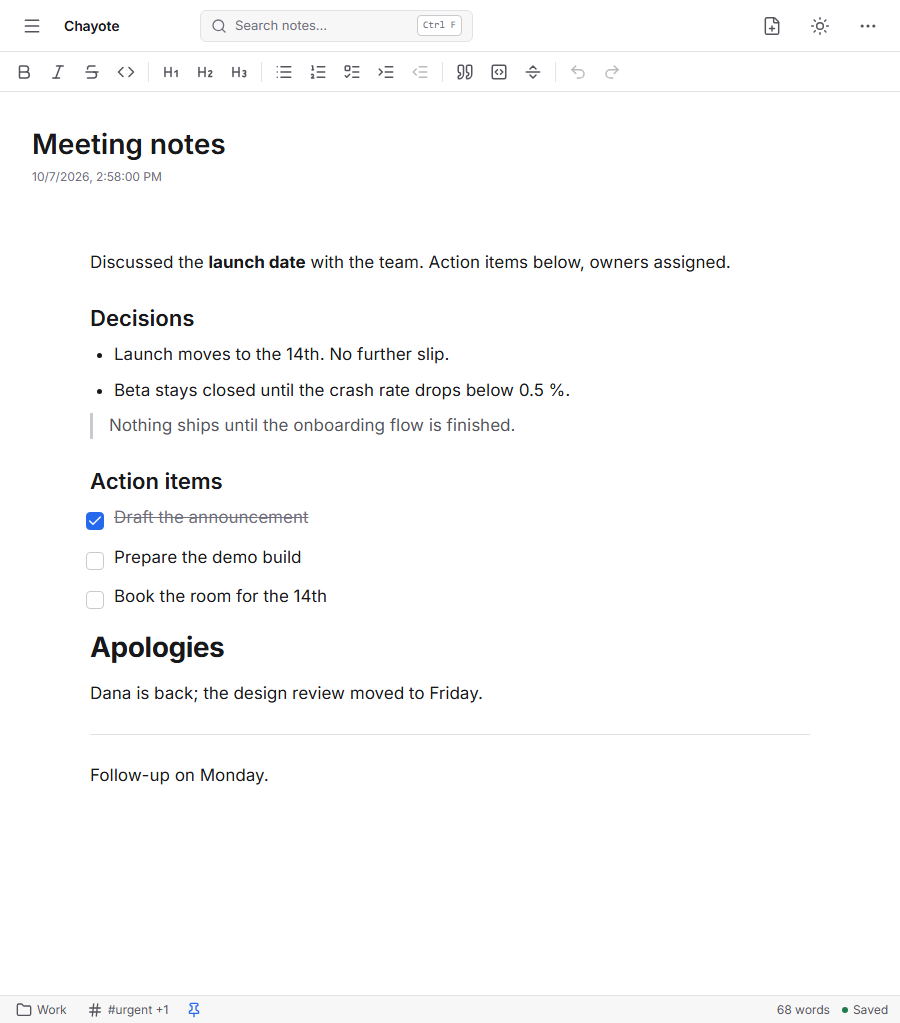
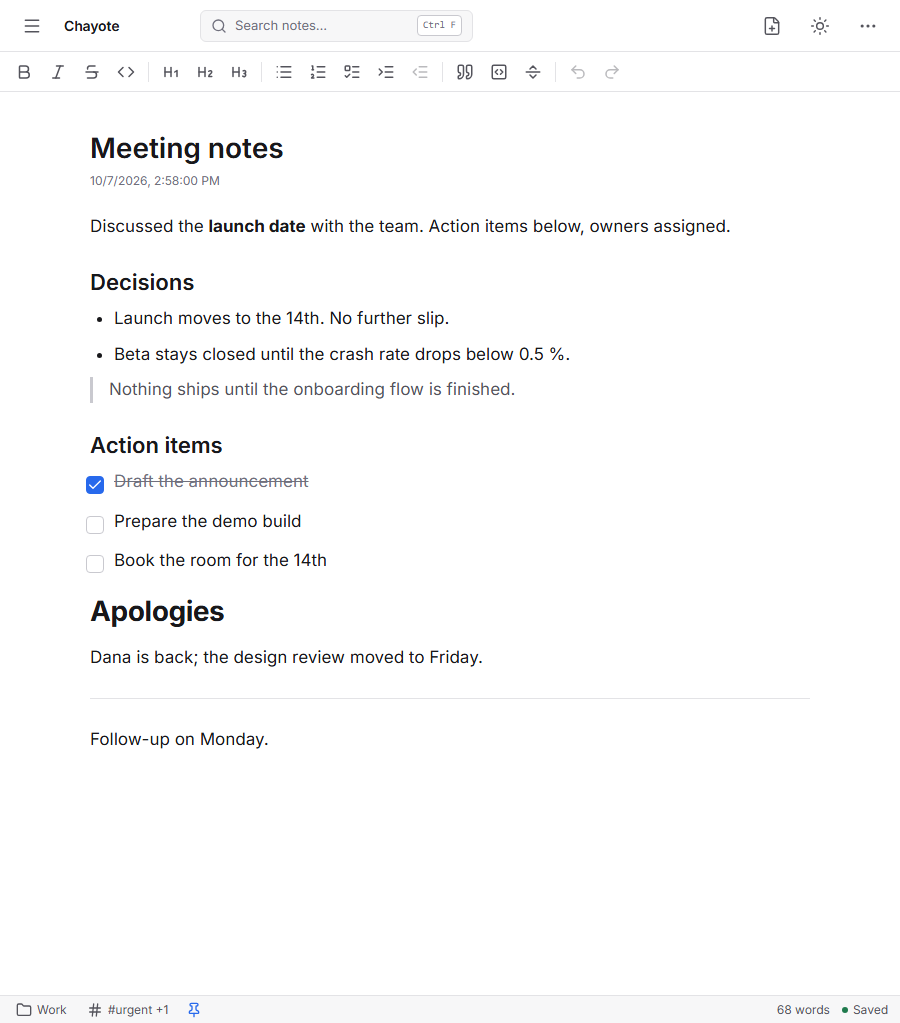
fix(mobile): let the title scroll, and stop the status row riding the keyboard
Three defects the user reported on the phone after the last two merges. Two are consequences of those merges; the third was older than both.

**The title hung above the note.** NoteHeader was a sibling of the scroll container, not a child, so scrolling a long note never moved it - a sibling of a scroller does not move when the scroller moves. ADR-023 landed it that way and the prototype has contradicted it since it was written: .editor-scroll and .m-editor both wrap .note-head *and* .editor. It is a child of the scrolling column now, with the prototype's own spacing - 24 px under the header on desktop, 16 on mobile, taken off the date line so a note without a date still has the gap. The padding moved to the column, where the prototype puts it, and so did the click routing that sends a tap under short text to the end of the document: ProseMirror fills the editor box, so the dead zone is now the column's own padding and nothing inside it needs catching twice.
[…]

Changed region(s): [[0.0933, 0.2121, 0.8089, 0.7879], [0.0311, 0.1212, 0.3111, 0.1818]]

diff --git a/e2e/mobile.spec.ts b/e2e/mobile.spec.ts
@@ -563,9 +563,11 @@ test.describe('mobile touch', { tag: '@touch' }, () => {
     await expect(page.getByRole('textbox', { name: 'Note content' })).toBeFocused();
     expect(await caret()).toEqual({ collapsed: true, inside: true });
 
-    /* The wrapper's own left padding, outside the editable element entirely. */
+    /* The scroll container's own left padding, outside the editable element
+       entirely. ADR-023's padding lived on the editor's wrapper; it is on the
+       scrolling column now, so this aims inside it rather than at its edge. */
     await blur();
-    await page.touchscreen.tap(box.x - 20, box.y + box.height / 2);
+    await page.touchscreen.tap(box.x - 10, box.y + box.height / 2);
     await expect(page.getByRole('textbox', { name: 'Note content' })).toBeFocused();
     expect(await caret()).toEqual({ collapsed: true, inside: true });
   });
@@ -596,5 +598,84 @@ test.describe('mobile touch', { tag: '@touch' }, () => {
     expect(menuBox.y + menuBox.height, 'menu overflows the viewport').toBeLessThanOrEqual(
       MOBILE.height,
     );
+  });
+});
+
+/* Found on a phone, by the user, straight after ADR-023 and the viewport fix that
+   went with it. Three separate things, one file because they are all about the
+   shape of the scrolling column rather than about any one control. */
+test.describe('mobile scroll shape', () => {
+  test('the title is part of the scrolling text, not a fixture above it', async ({ page }) => {
+    await openEditor(page);
+
+    /* The structural claim first, because it is the one that cannot be satisfied
+       by accident: the title is a *child* of the scroll container. ADR-023 put it
+       beside the container, which is what pinned it — a sibling of a scroller does
+       not move when the scroller moves, so scrolling a long note left the title
+       sitting at the top for ever. `prototype/index.html` has had
+       `.editor-scroll > .note-head + .editor` since it was written. */
+    const nesting = await page.evaluate(() => {
+      const header = document.querySelector('[data-testid="note-header"]');
+      const scroller = document.querySelector('.editor-scroll');
+      return header !== null && scroller !== null && scroller.contains(header);
+    });
+    expect(nesting, 'note-header is inside the scroll container').toBe(true);
+
+    /* And the behaviour, on a viewport short enough that any note scrolls. */
+    await page.setViewportSize({ width: MOBILE.width, height: 200 });
+    const moved = await page.evaluate(() => {
+      const scroller = document.querySelector('.editor-scroll');
+      const header = document.querySelector('[data-testid="note-header"]');
+      if (!(scroller instanceof HTMLElement) || header === null) return null;
+      const before = header.getBoundingClientRect().y;
+      scroller.scrollTop = scroller.scrollHeight;
+      return { before, after: header.getBoundingClientRect().y, scrollTop: scroller.scrollTop };
+    });
+    expect(moved, 'header and scroller found').not.toBeNull();
+    if (moved === null) return;
+    expect(moved.scrollTop, 'the note scrolls at all').toBeGreaterThan(0);
+    expect(moved.before - moved.after, 'the title moved up with the text').toBeGreaterThan(20);
+  });
+
+  test('the status row is pinned to the layout viewport, so the keyboard covers it', async ({
+    page,
+  }) => {
+    await openEditor(page);
+
+    /* The row used to ride up with the keyboard and appear above it, because
+       `#root` is sized to the *visible* area and the row sat at the bottom of the
+       pane in normal flow. Pinned to the layout viewport instead, it stays where it
+       was: the keyboard covers it and the text gets the space. Fixed positioning is
+       what "the layout viewport" means in CSS, and the undo toast already relies on
+       it. Desktop keeps the row in flow — a fixed bar there would leave the pane. */
+    const bar = page.getByTestId('editor-status-bar');
+    expect(await bar.evaluate((el) => getComputedStyle(el).position)).toBe('fixed');
+    expect(await bar.evaluate((el) => getComputedStyle(el).bottom)).not.toBe('auto');
+
+    await page.setViewportSize({ width: 1280, height: 820 });
+    await expect(bar).toBeVisible();
+    expect(await bar.evaluate((el) => getComputedStyle(el).position)).toBe('static');
+  });
+
+  test('scrolling ends at the container instead of chaining to the page', async ({ page }) => {
+    /* At the end of a note the container has nothing left to scroll, so the gesture
+       used to chain to the document — which cannot scroll either — and the WebView
+       rubber-banded the whole page. The user's word for it was a twitch. `contain`
+       ends the chain where the scrolling actually is. Asserted as computed style
+       because the symptom is a gesture the harness cannot produce: `input swipe`
+       left every viewport metric unchanged, so the effect is not reproducible here
+       and the contract is. */
+    await seedSettings(page, { theme: 'light', accent: null, lastSelection: { kind: 'all' } });
+    await page.goto('/');
+    const list = await page
+      .getByTestId('note-list')
+      .evaluate((el) => getComputedStyle(el).overscrollBehaviorY);
+    expect(list, 'note list').toBe('contain');
+
+    await openEditor(page);
+    const editor = await page
+      .locator('.editor-scroll')
+      .evaluate((el) => getComputedStyle(el).overscrollBehaviorY);
+    expect(editor, 'editor scroller').toBe('contain');
   });
 });

diff --git a/src/components/EditorPane.tsx b/src/components/EditorPane.tsx
@@ -579,25 +579,65 @@ export function EditorPane({ noteId, selectionKey, onClose, onTrash }: EditorPan
               editor={toolbarEditor}
               variant={onClose === undefined ? 'desktop' : 'mobile'}
             />
-            <NoteHeader
-              title={title}
-              updatedAt={data.updatedAt}
-              onChange={changeTitle}
-              onCommit={commitTitle}
-              onEnter={enterBodyFromTitle}
-              variant={onClose === undefined ? 'desktop' : 'mobile'}
-            />
-            <NoteEditor
-              key={`${data.id}:${contentEpoch}`}
-              doc={data.doc}
-              editable
-              onChange={onChange}
-              onFlush={() => {
-                void autosave.flush();
+            {/* `prototype/index.html` §2.5 and `.m-editor`: the title, the date and
+                the text are one scrolling column, and the prototype has said so since
+                it was written — `.editor-scroll` and `.m-editor` both wrap `.note-head`
+                *and* `.editor`. ADR-023 landed the title as a sibling of the scroll
+                container, which pinned it: scrolling a note never moved it, so it read
+                as a permanent fixture rather than as the note's first line. Caught on a
+                phone, by the user, immediately after that change.
+
+                The padding is the prototype's where the prototype's is right —
+                32/40 sides and top on desktop — and `overscroll-contain` is new: at
+                the end of a note the container cannot scroll further, the gesture
+                chained to the document, which cannot scroll either, and the WebView
+                rubber-banded the whole page. Containment ends the chain there, where
+                the scrolling actually is.
+
+                The mobile floor is 64 px rather than the prototype's 40, and that is
+                the one metric that is not the prototype's: the mobile status row is
+                viewport-fixed, so it *overlays* the bottom of this column instead of
+                ending it, and 40 px no longer clears its 44. Without the extra 24 the
+                last line of a note sits under the row. */}
+            <div
+              className={`editor-scroll flex flex-1 flex-col overflow-y-auto overscroll-contain ${
+                onClose === undefined ? 'px-8 pt-10 pb-16' : 'px-5 pt-6 pb-16'
+              }`}
+              onClick={(event) => {
+                /* Taps in this wrapper's own padding land outside ProseMirror even with
+                   the editor's full-height floor above, and on touch that tap would do
+                   nothing — no caret, no keyboard. Route exactly those to the end of
+                   the document. Only when the wrapper itself is the target (anything
+                   inside the text targets a descendant and keeps ProseMirror's own
+                   position mapping), and never mid-selection: releasing a text-selection
+                   drag over the padding must not collapse what the user just selected.
+                   Scrollbar presses dispatch no click, so they cannot reach this. */
+                if (event.target !== event.currentTarget) return;
+                const selection = window.getSelection();
+                if (selection !== null && !selection.isCollapsed) return;
+                toolbarEditor?.commands.focus('end');
               }}
-              onReady={onReady}
-              onDispose={onDispose}
-            />
+            >
+              <NoteHeader
+                title={title}
+                updatedAt={data.updatedAt}
+                onChange={changeTitle}
+                onCommit={commitTitle}
+                onEnter={enterBodyFromTitle}
+                variant={onClose === undefined ? 'desktop' : 'mobile'}
+              />
+              <NoteEditor
+                key={`${data.id}:${contentEpoch}`}
+                doc={data.doc}
+                editable
+                onChange={onChange}
+                onFlush={() => {
+                  void autosave.flush();
+                }}
+                onReady={onReady}
+                onDispose={onDispose}
+              />
+            </div>
           </>
         )
       }

diff --git a/src/components/EditorStatusBar.tsx b/src/components/EditorStatusBar.tsx
@@ -73,10 +73,22 @@ export function EditorStatusBar({
   return (
     <div
       /* Status text is chrome, not content: folder, tags, word count and save
-         state are read, never copied — copying happens in the editor. */
+         state are read, never copied — copying happens in the editor.
+
+         On mobile it is pinned to the bottom of the *layout* viewport rather than
+         sitting at the bottom of the pane, which is a different thing since
+         `src/lib/pinToVisualViewport.ts` arrived. The app is sized to the visible
+         area, so a row in the pane's flow rides up with the keyboard and appears
+         above it; the user asked for the behaviour it had before, which is that the
+         keyboard covers the row and the text gets the space. `position: fixed`
+         resolves against the layout viewport — the undo toast's wrapper already
+         relies on that — so the row stays where it was, and `var(--inset-bottom)`
+         is added back for the system navigation bar, which a fixed element ignores.
+         The editor keeps its `pb-16` floor, so the last line still scrolls clear. */
       data-testid="editor-status-bar"
-      className={`flex shrink-0 items-center gap-3 border-t border-[var(--border)] bg-[var(--surface-raised)] text-[12px] text-[var(--text-muted)] select-none ${
-        mobile ? 'h-11 gap-2 px-1' : 'h-7 px-3'
+      style={mobile ? { bottom: 'var(--inset-bottom)' } : undefined}
+      className={`flex items-center gap-3 border-t border-[var(--border)] bg-[var(--surface-raised)] text-[12px] text-[var(--text-muted)] select-none ${
+        mobile ? 'fixed inset-x-0 z-30 h-11 gap-2 px-1' : 'h-7 shrink-0 px-3'
       }`}
     >
       <SlotButton

diff --git a/src/editor/NoteEditor.tsx b/src/editor/NoteEditor.tsx
@@ -73,22 +73,15 @@ export function NoteEditor({
   return (
     <EditorContent
       editor={editor}
-      className="editor-scroll flex-1 overflow-y-auto px-8 pb-16 pt-10"
+      /* The padding, the scroll container and the click routing that goes with them
+         live on the wrapper `EditorPane` renders around this, which is also where the
+         title sits — the whole note is one scrolling column, title and date included,
+         as `prototype/index.html` §2.5 and `.m-editor` both have it. All that is left
+         here is to fill the height that column hands it: `flex-1` plus the floor on
+         `.note-editor` below, so a tap under short text still lands in the editable
+         element rather than in the container's own padding. */
+      className="flex-1"
       data-testid="note-editor-pane"
-      /* Taps in the wrapper's own padding land outside ProseMirror even with its
-         full-height floor above, and on touch that tap would do nothing — no
-         caret, no keyboard. Route exactly those to the end of the document. Only
-         when the wrapper itself is the target (anything inside the text targets
-         a descendant and keeps ProseMirror's own position mapping), and never
-         mid-selection: releasing a text-selection drag over the padding must not
-         collapse what the user just selected. Scrollbar presses dispatch no
-         click, so they cannot reach this. */
-      onClick={(event) => {
-        if (event.target !== event.currentTarget) return;
-        const selection = window.getSelection();
-        if (selection !== null && !selection.isCollapsed) return;
-        editor?.commands.focus('end');
-      }}
     />
   );
 }

diff --git a/src/components/NoteHeader.tsx b/src/components/NoteHeader.tsx
@@ -77,9 +77,15 @@ export function NoteHeader({
       /* The same 720 px column as the editor below it (`05-ui-ux.md` §2.5), or the
          title would sit against the pane's left edge while the body was centred
          inside it — a step across the screen that reads as a mistake, not as an
-         indent. What separates them is the space above, not a shift sideways. */
+         indent. What separates them is the space above, not a shift sideways.
+
+         The padding is not here: this sits inside the scroll container now, so it
+         scrolls with the text, and the prototype's `.note-head` carries a margin
+         rather than a padding for the same reason — `margin-bottom: 0 auto 24px`
+         on desktop, `.m-head { margin-bottom: 16px }` on mobile. The gap sits on
+         this element rather than on the date so a note with no date still has one. */
       className={`mx-auto w-full max-w-[var(--editor-measure)] flex-none ${
-        mobile ? 'px-5 pt-4 pb-1' : 'px-8 pt-9 pb-0'
+        mobile ? 'mb-4' : 'mb-6'
       }`}
       data-testid="note-header"
     >
@@ -112,10 +118,7 @@ export function NoteHeader({
            a language and a country does not read well in someone else's. The
            machine's locale is the only honest answer for a local-first app with
            no account and no settings for it. */
-        <p
-          data-testid="note-updated-at"
-          className={`mt-1.5 text-[12px] text-[var(--text-subtle)] ${mobile ? 'mb-1' : 'mb-6'}`}
-        >
+        <p data-testid="note-updated-at" className="mt-1.5 text-[12px] text-[var(--text-subtle)]">
           {new Date(updatedAt).toLocaleString()}
         </p>
       )}

diff --git a/prototype/index.html b/prototype/index.html
@@ -489,7 +489,11 @@ body {
 .m-card .m { font-size: 12px; color: var(--text-subtle); margin-top: 6px; }
 .m-card .pin { color: var(--accent); }
 
-.m-editor { flex: 1; overflow-y: auto; padding: 24px 20px 40px; }
+/* 24 / 20 sides / 64, not the 40 the desktop rule has: the mobile status row is
+     viewport-fixed (it has to be, or it rides up with the keyboard), so it overlays
+     the bottom of this column rather than ending it, and the floor has to clear its
+     44 px or the last line of a note sits under it. */
+  .m-editor { flex: 1; overflow-y: auto; padding: 24px 20px 64px; overscroll-behavior: contain; }
 .m-editor .editor h1 { font-size: 24px; }
 .m-editor .editor p, .m-editor .editor ul, .m-editor .editor ol { font-size: 16px; }
 /* ADR-023 on a phone: the title is one step down from the desktop size and sits

diff --git a/src/components/NoteList.tsx b/src/components/NoteList.tsx
@@ -195,7 +195,7 @@ export function NoteList({
       role="listbox"
       aria-label="Notes"
       data-testid="note-list"
-      className="min-h-0 flex-1 overflow-y-auto px-2 py-2"
+      className="min-h-0 flex-1 overflow-y-auto overscroll-contain px-2 py-2"
     >
       <div style={{ height: virtualizer.getTotalSize(), position: 'relative' }}>
         {virtualizer.getVirtualItems().map((virtualRow) => {
